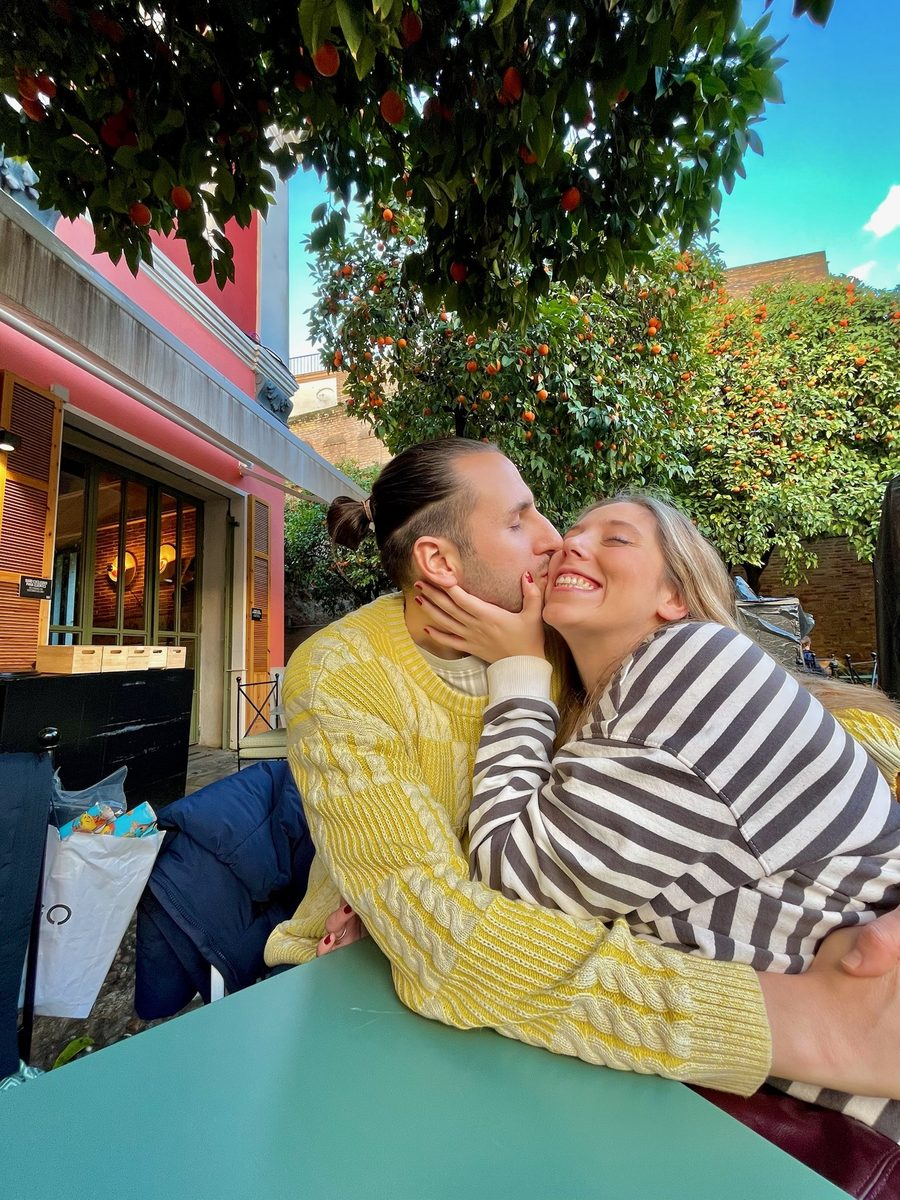
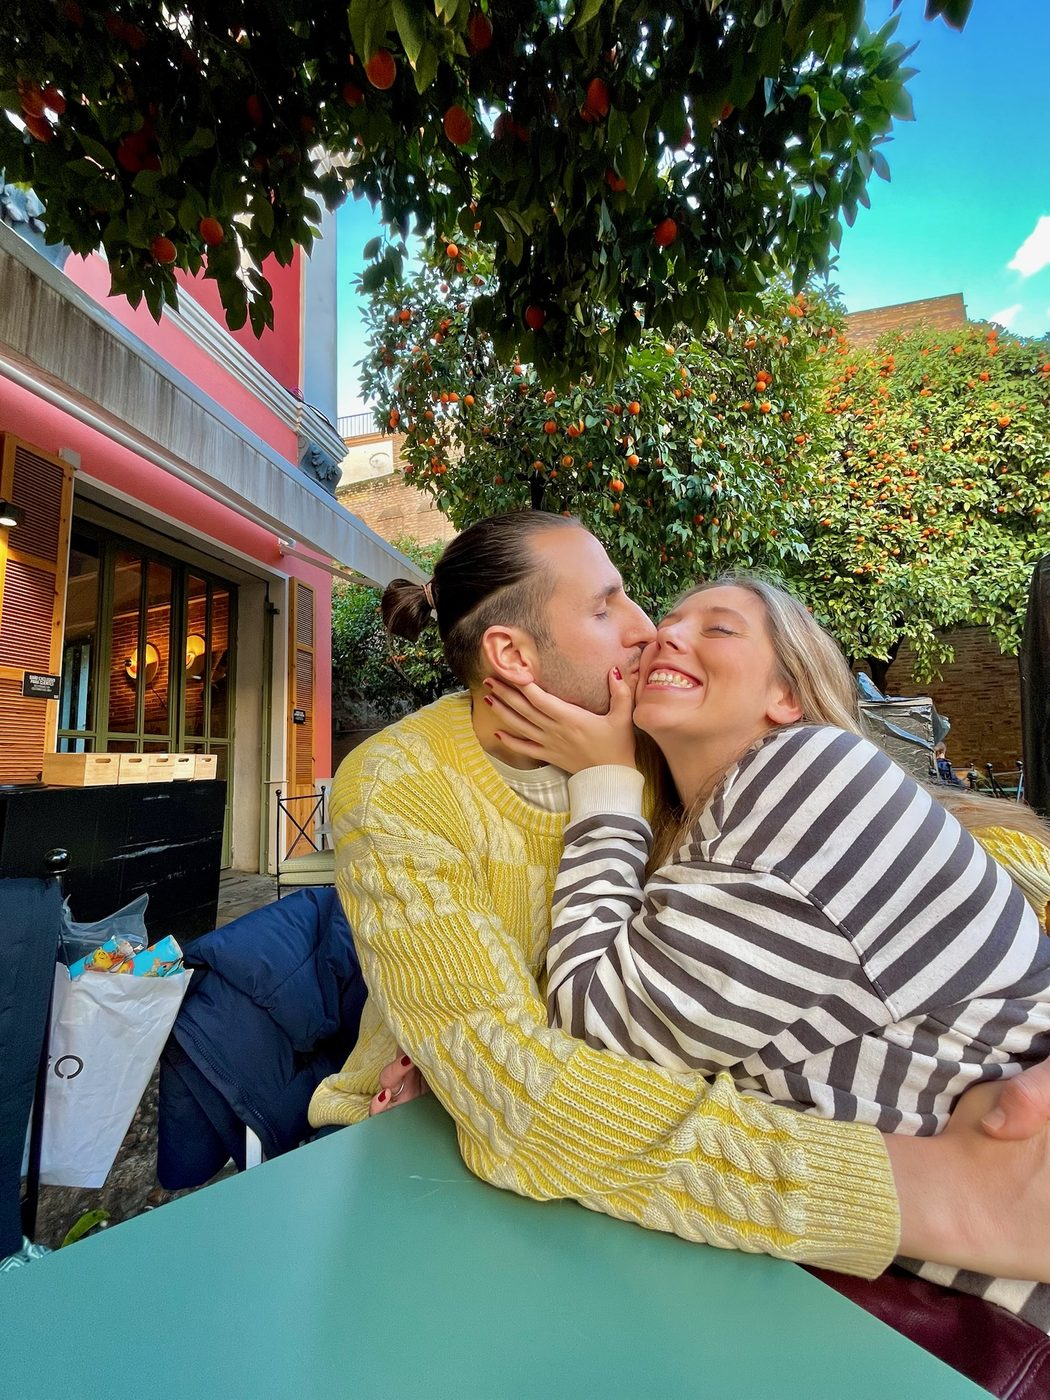
Populate gallery and photo strip with all 13 couple photos
Optimize the 13 uploaded photos (10 chronological + 3 pedida) for web,
wire them into the Historia gallery (in order) and the photo strip
(shuffled for variety), and drop the raw originals to keep the deploy lean.

diff --git a/index.html b/index.html
@@ -121,9 +121,19 @@
       <div class="gallery" id="galeria">
         <div class="gallery-viewport" id="galleryViewport">
           <div class="gallery-track">
-            <figure class="gallery-slide"><img src="assets/img/fotos/foto-07.jpg" width="900" height="1200" alt="Elena y Juanan" loading="lazy"></figure>
-            <figure class="gallery-slide"><img src="assets/img/fotos/foto-08.jpg" width="900" height="1200" alt="Elena y Juanan" loading="lazy"></figure>
-            <figure class="gallery-slide"><img src="assets/img/fotos/foto-09.jpg" width="900" height="1200" alt="Elena y Juanan" loading="lazy"></figure>
+            <figure class="gallery-slide"><img src="assets/img/fotos/foto-01.jpg" alt="Elena y Juanan" loading="lazy"></figure>
+            <figure class="gallery-slide"><img src="assets/img/fotos/foto-02.jpg" alt="Elena y Juanan" loading="lazy"></figure>
+            <figure class="gallery-slide"><img src="assets/img/fotos/foto-03.jpg" alt="Elena y Juanan" loading="lazy"></figure>
+            <figure class="gallery-slide"><img src="assets/img/fotos/foto-04.jpg" alt="Elena y Juanan" loading="lazy"></figure>
+            <figure class="gallery-slide"><img src="assets/img/fotos/foto-05.jpg" alt="Elena y Juanan" loading="lazy"></figure>
+            <figure class="gallery-slide"><img src="assets/img/fotos/foto-06.jpg" alt="Elena y Juanan" loading="lazy"></figure>
+            <figure class="gallery-slide"><img src="assets/img/fotos/foto-07.jpg" alt="Elena y Juanan" loading="lazy"></figure>
+            <figure class="gallery-slide"><img src="assets/img/fotos/foto-08.jpg" alt="Elena y Juanan" loading="lazy"></figure>
+            <figure class="gallery-slide"><img src="assets/img/fotos/foto-09.jpg" alt="Elena y Juanan" loading="lazy"></figure>
+            <figure class="gallery-slide"><img src="assets/img/fotos/foto-10.jpg" alt="Elena y Juanan" loading="lazy"></figure>
+            <figure class="gallery-slide"><img src="assets/img/fotos/foto-11.jpg" alt="Elena y Juanan, la pedida" loading="lazy"></figure>
+            <figure class="gallery-slide"><img src="assets/img/fotos/foto-12.jpg" alt="Elena y Juanan, la pedida" loading="lazy"></figure>
+            <figure class="gallery-slide"><img src="assets/img/fotos/foto-13.jpg" alt="Elena y Juanan, la pedida" loading="lazy"></figure>
           </div>
         </div>
         <div class="gallery-dots" id="galleryDots" aria-hidden="true"></div>
@@ -389,9 +399,19 @@
   <!-- TIRA DE FOTOS -->
   <div class="photo-strip" aria-hidden="true">
     <div class="strip-track" id="stripTrack">
-      <img src="assets/img/fotos/foto-07.jpg" alt="" loading="lazy">
+      <img src="assets/img/fotos/foto-01.jpg" alt="" loading="lazy">
+      <img src="assets/img/fotos/foto-03.jpg" alt="" loading="lazy">
+      <img src="assets/img/fotos/foto-05.jpg" alt="" loading="lazy">
       <img src="assets/img/fotos/foto-08.jpg" alt="" loading="lazy">
+      <img src="assets/img/fotos/foto-11.jpg" alt="" loading="lazy">
+      <img src="assets/img/fotos/foto-02.jpg" alt="" loading="lazy">
+      <img src="assets/img/fotos/foto-06.jpg" alt="" loading="lazy">
       <img src="assets/img/fotos/foto-09.jpg" alt="" loading="lazy">
+      <img src="assets/img/fotos/foto-13.jpg" alt="" loading="lazy">
+      <img src="assets/img/fotos/foto-04.jpg" alt="" loading="lazy">
+      <img src="assets/img/fotos/foto-07.jpg" alt="" loading="lazy">
+      <img src="assets/img/fotos/foto-10.jpg" alt="" loading="lazy">
+      <img src="assets/img/fotos/foto-12.jpg" alt="" loading="lazy">
     </div>
   </div>
 
